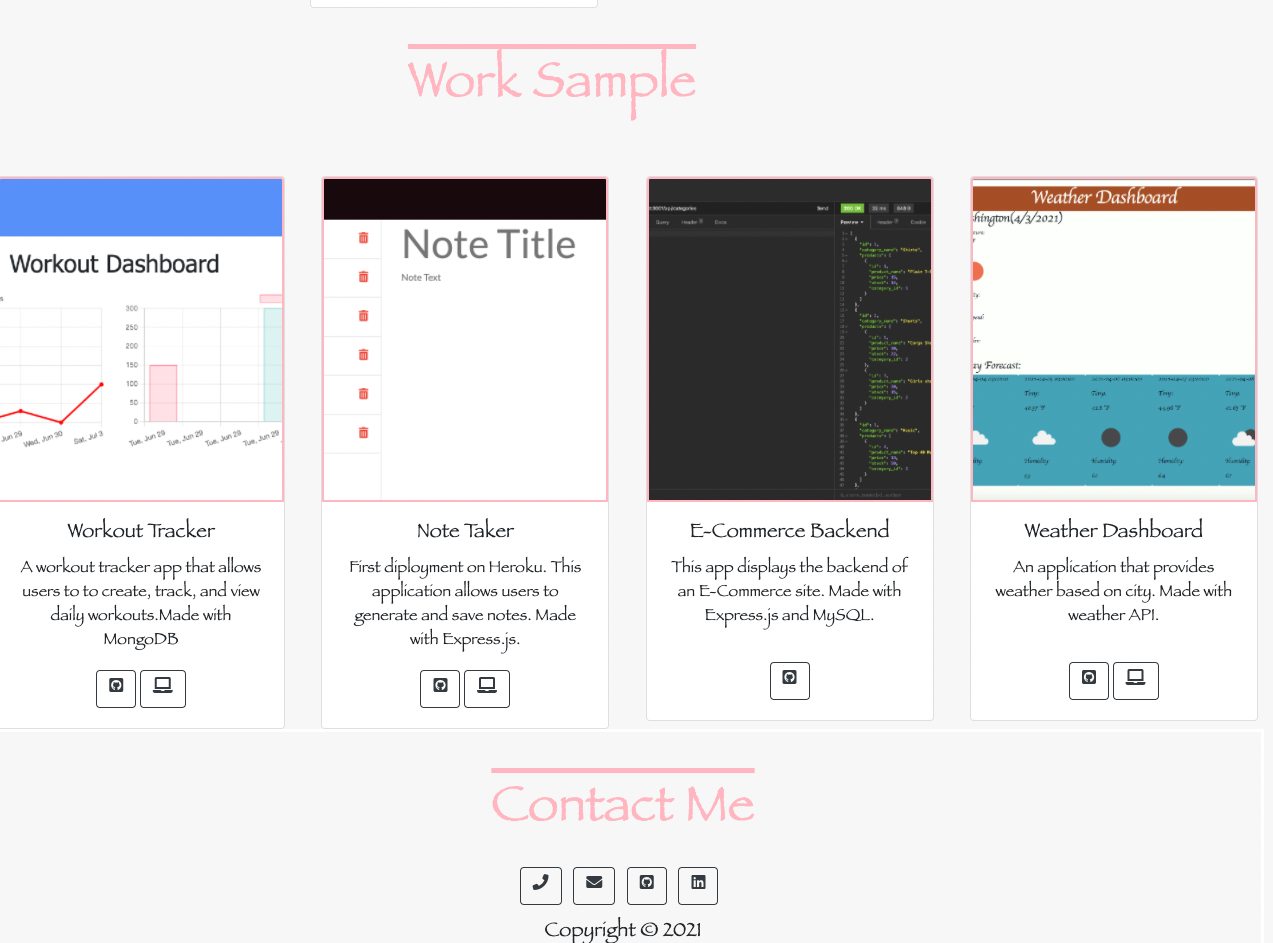
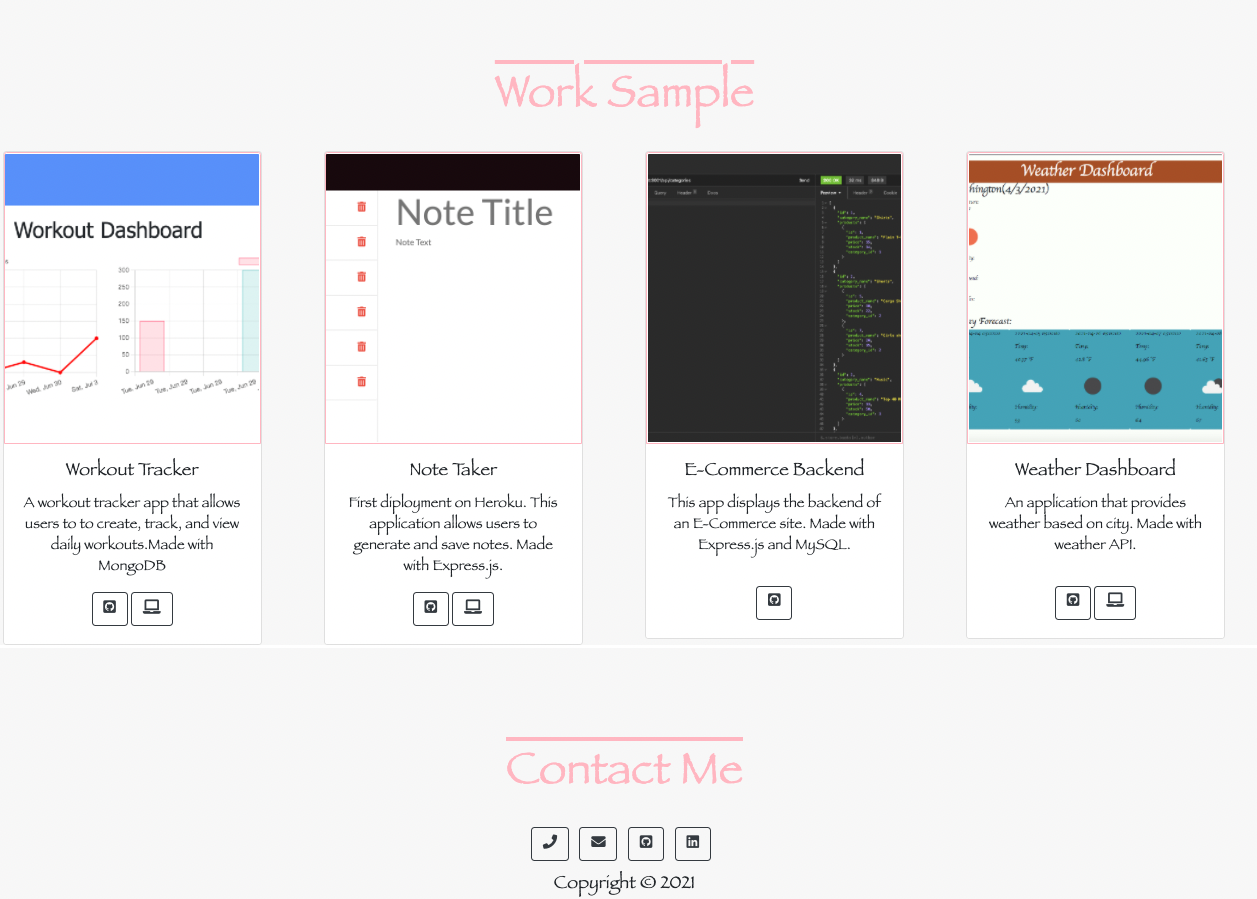
code cleanup

diff --git a/style.css b/style.css
@@ -9,41 +9,6 @@ body {
 
 }
 
-
-/* header {
-    position: relative;
-    width: 100%;
-    height: 100vh;
-    text-align: center;
-    color: #fff;
-    background: url("./images/banner2.jpg") center / cover;
-} */
-
-/*nav bar text*/
-
-/* .navbar {
-    text-align: right;
-} */
-/* a {
-    color:  white;
-    padding: 0em 0.5em;
-    text-decoration: none;
-    font-weight: bold;
-    border-style: groove;
-} */
-
-/* p {
-    font-size: 20px;
-    top: 10px;
-    color:  #535353;
-    float: left;
-    width: 65%;
-    margin-top: 3%;
-    margin-bottom: 61px;
-    margin-left: 316px;
-
-} */
-
 p {
     text-align: center;
     border: solid;
@@ -56,17 +21,6 @@ p {
     border-color: white;
 }
 
-/* .intro {
-    text-align: center;
-    padding: 213px;
-    padding-top: 144px;
-}
-
-.intro h2 {
-    font-family: 'Pacifico', cursive;
-    font-size: 50px;
-    font-weight: bold;
-} */
 
 img { 
     padding-top: 0%;
@@ -77,60 +31,9 @@ img {
     
  }
 
- /*benefits section*/
-/* .sidebar {
-    margin-right: 20px;
-    padding: 20px;
-    clear: both;
-    float: left;
-    width: 20%;
-    height: 100%;
-    font-family: 'Gill Sans', 'Gill Sans MT', Calibri, 'Trebuchet MS', sans-serif;
-    background-color: lightpink;
-    color: #ffffff!important;
-}
-
-.sidebardiv {
-    margin-bottom: 32px;
-    color: #ffffff;
-}
-
-.sidebar div h3 {
-    margin-bottom: 10px;
-    text-align: center;
-}
-
-.sidebar div img {
-    display: block;
-    margin: 10px auto;
-    max-width: 150px;
-} */
-
 h4 {
     text-align: center;
 }
-
-/* 
-.sidebar {
-    width: 15%;
-    position: fixed;
-    background-color: lightpink;
-    border-right: 2px solid;
-      bottom: 5px;;
-  }
- */
-
-/* 
-header nav ul {
-    list-style-type: none;
-    margin-top: -37%;
-    float: right;
-}
-
-header nav ul li  {
-    display: inline-block;
-    margin-left: 25px;
-} */
 
 .aboutme {
     text-align: center;
@@ -139,13 +42,13 @@ header nav ul li  {
 h3 {
     font-size: 50px;
     text-align: center;
-    padding-bottom: 137px;
-    padding-top: 169px;
+    padding-bottom: 19px;
+    padding-top: 112px;
     color: lightpink;
     text-decoration: overline;
 }
 
-.aboutme h3 {
+/* .aboutme h3 {
     padding-bottom: 36px;
     padding-top: 50px;
     margin-left: -28px;
@@ -160,20 +63,6 @@ h3 {
     padding-right: 60px;
     padding-bottom: 50px;
     margin-right: 54px;
-}
-/* .mypic img {
-    border: 2px solid #ef664d;
-    float: center;
-    margin-right: 56px;
-} */
-
-/* .row  { */
-    /* background-color: lightslategray; */
-    /* border-radius: 10px;
-} */
-
-/* .row img {
-    border-radius: 10px;
 } */
 
 .card {
@@ -207,16 +96,5 @@ a:hover {
   
 }
 
-/* @media screen and (min-width: 601px) {
-    div.example {
-      font-size: 80px;
-    }
-  }
-  
-  @media screen and (max-width: 600px) {
-    div.example {
-      font-size: 30px;
-    }
-  } */
 
   
